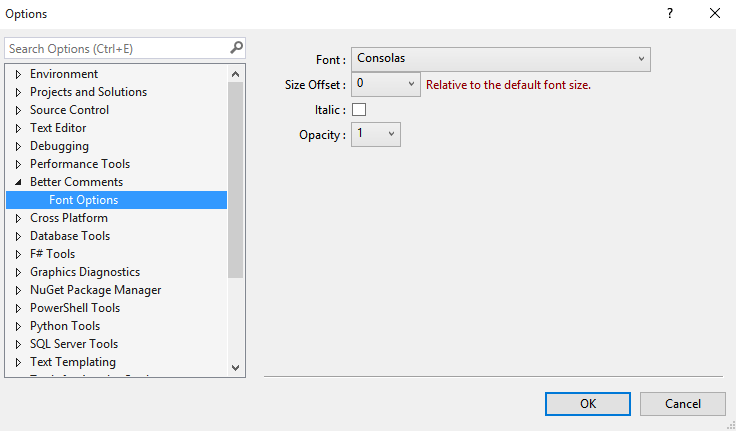
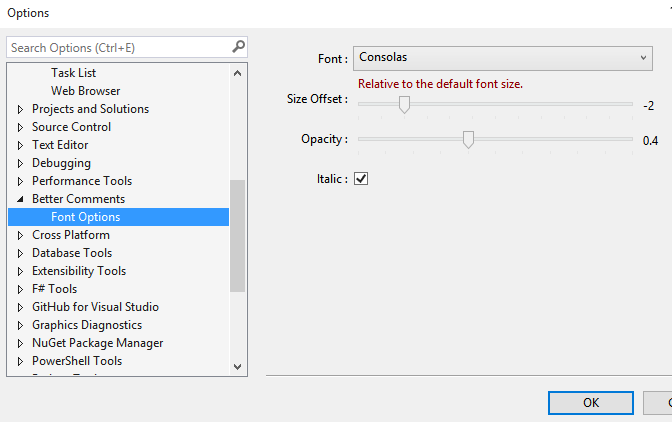
Change Size and Opacity controls to Sliders

diff --git a/BetterComments/Options/FontOptionsPageControl.xaml b/BetterComments/Options/FontOptionsPageControl.xaml
@@ -15,7 +15,6 @@
             <RowDefinition Height="Auto"/>
             <RowDefinition Height="Auto"/>
             <RowDefinition Height="Auto"/>
-            <RowDefinition Height="Auto"/>
         </Grid.RowDefinitions>
         <Grid.ColumnDefinitions>
             <ColumnDefinition Width="Auto"/>
@@ -42,45 +41,73 @@
                Content="Size Offset :" 
                HorizontalAlignment="Right" 
                VerticalAlignment="Center"/>
-        
-        <StackPanel  Grid.Row="1" 
-                     Grid.Column="1" 
-                     Orientation="Horizontal">
-            
-            <ComboBox x:Name="SizeComboBox" 
-                      HorizontalAlignment="Left" 
-                      Width="70"
-                      SelectedValue="{Binding Size, Mode=TwoWay}"/>
-            
-            <Label Content="Relative to the default font size." 
-                   Foreground="DarkRed"/>
+
+        <StackPanel Grid.Row="1" 
+                    Grid.Column="1"
+                    HorizontalAlignment="Left">
+
+            <Label Content="Relative to the default font size."
+                   Foreground="DarkRed" />
+
+            <StackPanel Orientation="Horizontal">
+                <Slider x:Name="SizeValueSlider"
+                            Minimum="-3"
+                            Maximum="3"
+                            TickFrequency="0.5"
+                            IsSnapToTickEnabled="True"
+                            TickPlacement="BottomRight"
+                            Width="285"
+                            Height="30"
+                            Value="{Binding Size, Mode=TwoWay}" />
+
+                <TextBlock Text="{Binding Value, ElementName=SizeValueSlider}"
+                               Padding="5 2"
+                               TextAlignment="Center"/>
+            </StackPanel>
+
         </StackPanel>
-        
+
+
+        <!--! Opacity -->
+        <Label Grid.Row="2"
+               Grid.Column="0"
+               Content="Opacity :" 
+               HorizontalAlignment="Right" />
+
+
+        <StackPanel Grid.Row="2" 
+                    Grid.Column="1" 
+                    Orientation="Horizontal"
+                    HorizontalAlignment="Left"
+                    Margin="0 5">
+           
+            <Slider x:Name="OpacityeValueSlider"
+                            Minimum="0"
+                            Maximum="1"
+                            TickFrequency="0.1"
+                            IsSnapToTickEnabled="True"
+                            TickPlacement="BottomRight"
+                            Width="285"
+                            Height="30"
+                            Value="{Binding Opacity, Mode=TwoWay}" />
+
+            <TextBlock Text="{Binding Value, ElementName=OpacityeValueSlider}"
+                               Padding="5 2"
+                               TextAlignment="Center"/>
+        </StackPanel>
+
         <!--! Italic -->
-        <Label Grid.Row="2" 
+        <Label Grid.Row="3" 
                Grid.Column="0" 
                Content="Italic :" 
                HorizontalAlignment="Right" 
                VerticalAlignment="Center"/>
 
         <CheckBox x:Name="ItalicCheckBox" 
-                  Grid.Row="2" 
+                  Grid.Row="3" 
                   Grid.Column="1" 
                   VerticalAlignment="Center" 
                   IsChecked="{Binding Italic, Mode=TwoWay}"/>
 
-        <!--! Opacity -->
-        <Label Grid.Row="4"
-               Grid.Column="0"
-               Content="Opacity :" 
-               HorizontalAlignment="Right" 
-               VerticalAlignment="Center"/>
-
-        <ComboBox x:Name="OpacityComboBox" 
-                  Grid.Row="4" 
-                  Grid.Column="1" 
-                  HorizontalAlignment="Left" 
-                  Width="50"
-                  SelectedValue="{Binding Opacity, Mode=TwoWay}"/>
     </Grid>
 </UserControl>

diff --git a/BetterComments/Options/FontSettingsManager.cs b/BetterComments/Options/FontSettingsManager.cs
@@ -36,7 +36,7 @@ namespace BetterComments.Options
                 settingsStore.SetString(COLLECTION_PATH, nameof(FontSettings.Size), CurrentSettings.Size.ToString(CultureInfo.InvariantCulture));
                 settingsStore.SetBoolean(COLLECTION_PATH, nameof(FontSettings.Italic), CurrentSettings.Italic);
                 settingsStore.SetString(COLLECTION_PATH, nameof(FontSettings.Opacity), CurrentSettings.Opacity.ToString(CultureInfo.InvariantCulture));
-
+                
                 SettingsSaved?.Invoke(null, EventArgs.Empty);
             }
             catch (Exception ex)

diff --git a/BetterComments/Options/FontOptionsPageControl.xaml.cs b/BetterComments/Options/FontOptionsPageControl.xaml.cs
@@ -11,8 +11,6 @@ namespace BetterComments.Options
         {
             InitializeComponent();
             FontsComboBox.ItemsSource = GetInstalledFonts();
-            SizeComboBox.ItemsSource = new[] { 3.0, 2.5, 2.0, 1.5, 1.0, 0.0, -1.0, -1.5, -2.0, -2.5, -3.0 };
-            OpacityComboBox.ItemsSource = new[] { 1.0, 0.9, 0.8, 0.7, 0.6, 0.5, 0.4, 0.3, 0.2, 0.1 };
             DataContext = FontSettingsManager.CurrentSettings;
         }
 

diff --git a/BetterComments/Options/FontSettings.cs b/BetterComments/Options/FontSettings.cs
@@ -32,6 +32,7 @@ namespace BetterComments.Options
             {
                 if (value.Equals(size))
                     return;
+
                 size = value;
                 OnPropertyChanged();
             }
